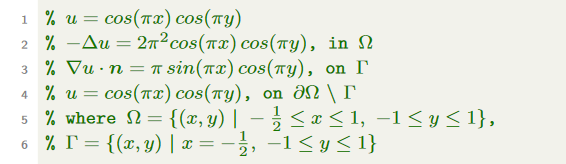
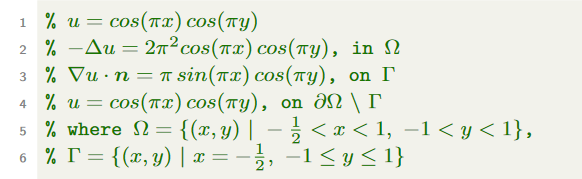
Tweak for accuracy

Changed region(s): [[0.03, 0.5183, 0.9311, 0.9756], [0.03, 0.061, 0.6908, 0.3354], [0.03, 0.3659, 0.6908, 0.4878]]

diff --git a/Chapter11_FEM2d/src/example1.m b/Chapter11_FEM2d/src/example1.m
@@ -2,30 +2,35 @@
 % $-\Delta{u} = 2\pi^2 cos(\pi x)\,cos(\pi y)$, in $\Omega$
 % $\nabla{u}\cdot\boldsymbol{n}=\pi\,sin(\pi x)\,cos(\pi y)$, on $\Gamma$
 % $u=cos(\pi x)\,cos(\pi y)$, on $\partial{\Omega}\ {\backslash}\ {\Gamma}$
-% where $\Omega=\{(x,y)\ | \ -\frac{1}{2}\leq x \leq 1,\ -1 \leq y \leq 1 \}$,
+% where $\Omega=\{(x,y)\ | \ -\frac{1}{2} < x < 1,\ -1 < y < 1 \}$,
 % $\Gamma = \{(x,y)\ | \ x=-\frac{1}{2},\ -1 \leq y \leq 1 \}$
 
 N=6;
 L_inf_err=zeros(N,1);
 L2_err=zeros(N,1);
+H1_semi_err=zeros(N,1);
 H1_err=zeros(N,1);
 dofs=zeros(N,1);
 n=4;
 for i=1:N
-    [dofs(i),L_inf_err(i),L2_err(i),H1_err(i)]=run_example1(n);
+    [dofs(i),L_inf_err(i),L2_err(i),H1_semi_err(i),H1_err(i)]=run_example1(n);
     n=n*2;
 end
-L_inf_convergence_order=zeros(N-1,1);
-L2_convergence_order=zeros(N-1,1);
-H1_convergence_order=zeros(N-1,1);
+L_inf_order=zeros(N-1,1);
+L2_order=zeros(N-1,1);
+H1_semi_order=zeros(N-1,1);
+H1_order=zeros(N-1,1);
 for i=1:N-1
-    L_inf_convergence_order(i)=log2(L_inf_err(i)/L_inf_err(i+1));
-    L2_convergence_order(i)=log2(L2_err(i)/L2_err(i+1));
-    H1_convergence_order(i)=log2(H1_err(i)/H1_err(i+1));
+    L_inf_order(i)=log2(L_inf_err(i)/L_inf_err(i+1));
+    L2_order(i)=log2(L2_err(i)/L2_err(i+1));
+    H1_semi_order(i)=log2(H1_semi_err(i)/H1_semi_err(i+1));
+    H1_order(i)=log2(H1_err(i)/H1_err(i+1));
 end
-L_inf_convergence_order
-L2_convergence_order
-H1_convergence_order
+dofs
+disp('L_inf_err   L2_err   H1_semi_err   H1_err')
+disp([L_inf_err,L2_err,H1_semi_err,H1_err])
+disp('L_inf_order   L2_order   H1_semi_order   H1_order')
+disp([L_inf_order,L2_order,H1_semi_order,H1_order])
 
 % plot
 figure(3)
@@ -34,17 +39,20 @@ figure(3)
 loglog(dofs,L_inf_err,'-^', ...
     dofs,L2_err,'-d', ...
     dofs,exp(-1*log(dofs)+0.8),'--', ...
-    dofs,H1_err,'-p', ...
+    dofs,H1_semi_err,'-p', ... dofs,H1_err,'-h', ...
     dofs,exp(-1/2*log(dofs)+1.9),'--');
 xlabel('dofs [log]'); xlim([10 3*10^4]);
 ylabel('error [log]');
-legend('maximum norm','L^2 norm','rate 2','H^1 semi-norm', ...
+legend('maximum norm','L^2 norm','rate 2','H^1 semi-norm', ... 'H^1 norm',
     'rate 1','Location','SouthWest');
-% title('Convergence Orders');
+% title('Convergence Rates');
+% Since L^2 norm errors are rather small when compared to H^1 semi-norm,
+% H^1 semi-norm errors are almost equal to H^1 semi norm, so in the plot
+% H^1 semi-norm and H^1 norm almost coincide.
 
 %=================================================================
 
-function [dofs,L_inf_err,L2_err,H1_err] = run_example1(n)
+function [dofs,L_inf_err,L2_err,H1_semi_err,H1_err] = run_example1(n)
 x=[-1/2 1]; y=[-1 1];
 % n_x=50; n_y=50;
 n_x=n; n_y=n;
@@ -67,7 +75,7 @@ u = A\phi;
 
 u_r = @(x, y) cos(pi*x).*cos(pi*y);
 grad_u_r = @(x, y) [-pi*sin(pi*x).*cos(pi*y),-pi*cos(pi*x).*sin(pi*y)];
-[L_inf_err,L2_err,H1_err] = errorEstimates(p,t,u,u_r,grad_u_r);
+[L_inf_err,L2_err,H1_semi_err,H1_err] = errorEstimates(p,t,u,u_r,grad_u_r);
 
 % t is specified as a 4-by-Nt matrix in pdemesh, although we don't
 % use the 4th row in a 2D mesh. To be compatible with 3D meshes?

diff --git a/Chapter11_FEM2d/src/errorEstimates.m b/Chapter11_FEM2d/src/errorEstimates.m
@@ -1,22 +1,21 @@
-function [L_inf_err,L2_err,H1_err] = errorEstimates(p,t,u,u_r,grad_u_r)
+function [L_inf_err,L2_err,H1_semi_err,H1_err] = errorEstimates(p,t,u,u_r,grad_u_r)
 
 % 6-point quadrature rule of order 4 on unit triangle [0 0;0 1;1 0]
 w = [1/60; 1/60; 1/60; 9/60; 9/60 ; 9/60];
 x = [1/2 0; 1/2 1/2; 0 1/2; 1/6 1/6; 1/6 2/3; 2/3 1/6];
 
 nCells = size(t,1);
-unit_base = [1-x(:,1)-x(:,2), x(:,1), x(:,2)];
-grad_unit_base = [-1 -1 1 0 0 1];
+unit_basis = [1-x(:,1)-x(:,2), x(:,1), x(:,2)]; % shape functions
+grad_unit_basis = [-1 -1 1 0 0 1];
 
 L_inf_err = max(abs(u_r(p(:,1),p(:,2))-u));
-L2_err = 0; H1_err = 0;  
+L2_err = 0; H1_semi_err = 0; H1_err = 0;
 for k = 1 : nCells
-    % We can also use `GaussTriaQuad()`, but the evaluation of the values
-    % under those of points after the affine transformation is nontrivial,
-    % since u_FE on K'th triangle is: u1*b1 + u2*b2 + u3*b3, where bi is a
-    % plane based on the triangle and only the i'th point has height 1.
-    % Hence, we adopt another approach which directly use the unit base
-    % functions, the precedure is identical to `GaussTriaQuad()`.
+    % We can also use `GaussTriaQuad()` to calculate the local L2 error:
+    % update u_err = @(x,y) (u_r(x,y)-u_K(x,y)).^2 for each loop, where
+    %        u_K   = @(x,y) "plane over triangle K with hights u(vidx)"
+    % then
+    %        loc_L2_err = GaussTriaQuad(triangle, u_err);
     
     vidx = t(k,:);
     
@@ -30,22 +29,25 @@ for k = 1 : nCells
     u_EX = u_r(y(:,1),y(:,2));
     grad_u_EX = grad_u_r(y(:,1),y(:,2));
     
-    u_FE = u(vidx(1))*unit_base(:,1)+u(vidx(2))*unit_base(:,2)+ ...
-                                     u(vidx(3))*unit_base(:,3);
+    u_FE = u(vidx(1))*unit_basis(:,1)+u(vidx(2))*unit_basis(:,2)+ ...
+                                      u(vidx(3))*unit_basis(:,3);
     
-    grad_u_FE = (u(vidx(1))*grad_unit_base(1:2)+ ...
-                 u(vidx(2))*grad_unit_base(3:4)+ ...
-                 u(vidx(3))*grad_unit_base(5:6))*(inv(BK)).';
+    grad_u_FE = (u(vidx(1))*grad_unit_basis(1:2)+ ...
+                 u(vidx(2))*grad_unit_basis(3:4)+ ...
+                 u(vidx(3))*grad_unit_basis(5:6))*(inv(BK)).';
     
     tmp = sum(w.*(u_EX-u_FE).^2)*det_BK;
     L2_err = L2_err+tmp;
     
-    H1_err = H1_err+tmp+sum(w.*sum((grad_u_EX-grad_u_FE).^2,2))*det_BK;
+    tmp2 = sum(w.*sum((grad_u_EX-grad_u_FE).^2,2))*det_BK;
+    H1_semi_err = H1_semi_err+tmp2;
+    H1_err = H1_err+tmp+tmp2;
     
 end
 
 L2_err = sqrt(L2_err);
-H1_err = sqrt(H1_err);
+H1_semi_err = sqrt(H1_semi_err);
+H1_err = sqrt(H1_err); % = sqrt(L2_err^2+H1_semi_err^2)
 
 end
 
